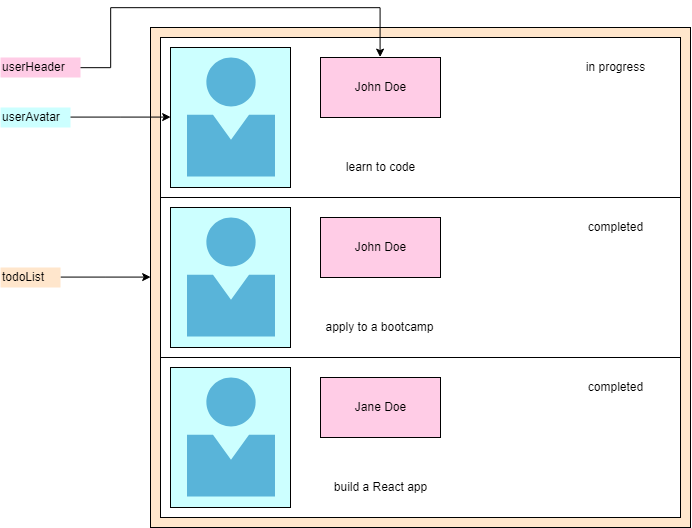
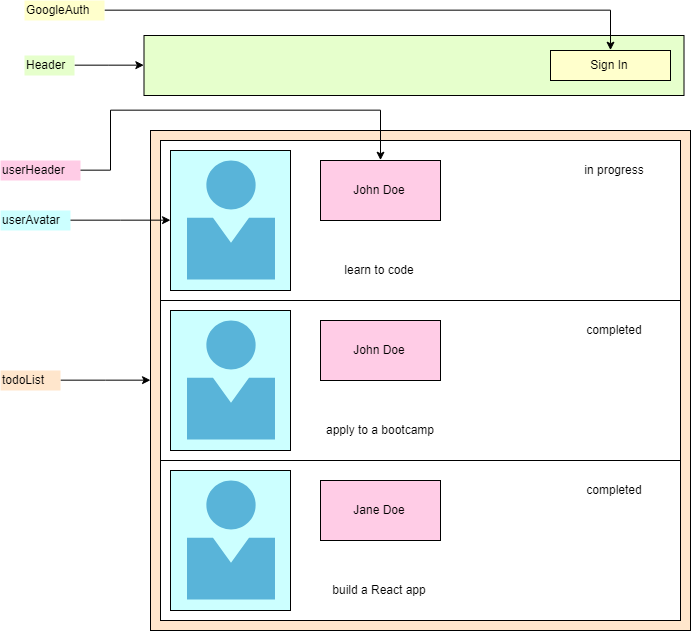
add auth

diff --git a/src/components/GoogleAuth.js b/src/components/GoogleAuth.js
@@ -1,0 +1,53 @@
+import './GoogleAuth.css';
+import React from 'react';
+import {connect} from 'react-redux';
+import {attemptSignIn, attemptSignOut, changeAuth} from '../actions';
+
+class GoogleAuth extends React.Component {
+  componentDidMount() {
+    window.gapi.load('client:auth2', () => {
+      window.gapi.client.init({clientId: '674624043343-nfitu88lvdrmgh542r8mc4jajvtmo32m.apps.googleusercontent.com', scope: 'email'}).then(() => {
+        this.auth = window.gapi.auth2.getAuthInstance();
+        // initialize isSignedIn state
+        this.props.changeAuth(this.auth.isSignedIn.get());
+        // listen for changes in the isSignedIn state
+        this.auth.isSignedIn.listen(this.props.changeAuth);
+      });
+    });
+  }
+
+  onSignInButtonClick = () => {
+    this.props.attemptSignIn();
+  }
+
+  onSignOutButtonClick = () => {
+    this.props.attemptSignOut();
+  }
+
+  renderAuthButton() {
+    const {isSignedIn} = this.props;
+    if (isSignedIn === null) {
+      return null;
+    } else if (isSignedIn) {
+      return (<button className="ui button" onClick={this.onSignOutButtonClick}>
+        <i className="google icon"></i>
+        Sign Out
+      </button>);
+    } else {
+      return (<button className="ui button" onClick={this.onSignInButtonClick}>
+        <i className="google icon"></i>
+        Sign In
+      </button>);
+    }
+  }
+
+  render() {
+    return <div className="googleAuth">{this.renderAuthButton()}</div>;
+  }
+}
+
+const mapStateToProps = state => {
+  return {isSignedIn: state.auth.isSignedIn};
+};
+
+export default connect(mapStateToProps, {attemptSignIn, attemptSignOut, changeAuth})(GoogleAuth);

diff --git a/src/index.js b/src/index.js
@@ -1,11 +1,12 @@
 import React from 'react';
 import ReactDOM from 'react-dom';
 import {Provider} from 'react-redux';
-import {createStore, applyMiddleware} from 'redux';
+import {createStore, applyMiddleware, compose} from 'redux';
 import thunk from 'redux-thunk';
 import App from './components/App';
 import reducers from './reducers';
 
-ReactDOM.render(<Provider store={createStore(reducers, applyMiddleware(thunk))}>
+const composeEnhancers = window.__REDUX_DEVTOOLS_EXTENSION_COMPOSE__ || compose;
+ReactDOM.render(<Provider store={createStore(reducers, composeEnhancers(applyMiddleware(thunk)))}>
   <App/>
 </Provider>, document.querySelector('#root'));

diff --git a/src/reducers/authReducer.js b/src/reducers/authReducer.js
@@ -1,0 +1,19 @@
+import {CHANGE_AUTH} from '../actions/types';
+
+const INITIAL_STATE = {
+  isSignedIn: null,
+  userId: null
+}
+
+export default(state = INITIAL_STATE, action) => {
+  switch (action.type) {
+    case CHANGE_AUTH:
+      return {
+        ...state,
+        isSignedIn: action.payload.isSignedIn,
+        userId: action.payload.userId
+      };
+    default:
+      return state;
+  }
+};

diff --git a/public/index.html b/public/index.html
@@ -9,6 +9,7 @@
   <link rel="stylesheet" href="https://cdnjs.cloudflare.com/ajax/libs/semantic-ui/2.4.1/semantic.min.css">
   <link href="https://fonts.googleapis.com/css?family=Amatic+SC:700&display=swap" rel="stylesheet">
   <link rel="manifest" href="%PUBLIC_URL%/manifest.json" />
+  <script src="https://apis.google.com/js/api.js"></script>
   <title>tasks</title>
 </head>
 

diff --git a/src/reducers/index.js b/src/reducers/index.js
@@ -1,5 +1,6 @@
 import {combineReducers} from 'redux';
 import todosReducer from './todosReducer';
 import usersReducer from './usersReducer';
+import authReducer from './authReducer';
 
-export default combineReducers({todos: todosReducer, users: usersReducer});
+export default combineReducers({todos: todosReducer, users: usersReducer, auth: authReducer});

diff --git a/src/actions/changeAuth.js b/src/actions/changeAuth.js
@@ -1,0 +1,14 @@
+import {CHANGE_AUTH} from './types';
+
+export default isSignedIn => async dispatch => {
+  const userId = isSignedIn
+    ? await window.gapi.auth2.getAuthInstance().currentUser.get().getId()
+    : null;
+  dispatch({
+    type: CHANGE_AUTH,
+    payload: {
+      isSignedIn,
+      userId
+    }
+  });
+};

diff --git a/src/actions/index.js b/src/actions/index.js
@@ -1,5 +1,11 @@
 import fetchTodosAndUsers from './fetchTodosAndUsers';
+import attemptSignIn from './attemptSignIn';
+import attemptSignOut from './attemptSignOut';
+import changeAuth from './changeAuth';
 
 export {
-  fetchTodosAndUsers
+  fetchTodosAndUsers,
+  attemptSignIn,
+  attemptSignOut,
+  changeAuth
 }

diff --git a/src/components/App.js b/src/components/App.js
@@ -2,9 +2,11 @@ import './App.css';
 import React from 'react';
 import TodoList from './TodoList';
 import Attribution from './Attribution';
+import Header from './Header';
 
 export default() => {
   return (<div className="app">
+    <Header/>
     <h1>Tasks</h1>
     <TodoList/>
     <Attribution/>

diff --git a/src/actions/fetchUser.js b/src/actions/fetchUser.js
@@ -1,5 +1,5 @@
 import jsonPlaceholder from '../apis/jsonPlaceholder';
-import {FETCH_USER} from '../actionTypes';
+import {FETCH_USER} from './types';
 
 export default id => async dispatch => {
   const response = await jsonPlaceholder.get(`/users/${id}`);

diff --git a/src/actions/fetchTodos.js b/src/actions/fetchTodos.js
@@ -1,5 +1,5 @@
 import jsonPlaceholder from '../apis/jsonPlaceholder';
-import {FETCH_TODOS} from '../actionTypes';
+import {FETCH_TODOS} from './types';
 
 export default() => async dispatch => {
   const response = await jsonPlaceholder.get('/todos');

diff --git a/src/components/Header.js b/src/components/Header.js
@@ -1,0 +1,9 @@
+import './Header.css';
+import React from 'react';
+import GoogleAuth from './GoogleAuth';
+
+export default() => {
+  return (<div className="header main">
+    <div className="item"><GoogleAuth/></div>
+  </div>);
+};

diff --git a/src/reducers/todosReducer.js b/src/reducers/todosReducer.js
@@ -1,4 +1,4 @@
-import {FETCH_TODOS} from '../actionTypes';
+import {FETCH_TODOS} from '../actions/types';
 
 export default(state = [], action) => {
   switch (action.type) {
